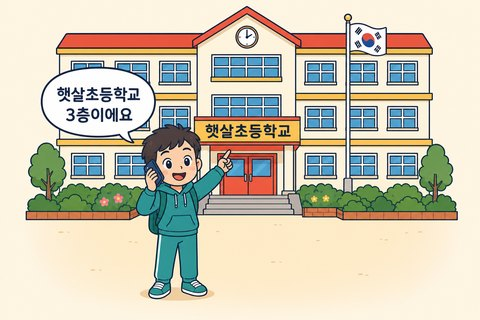
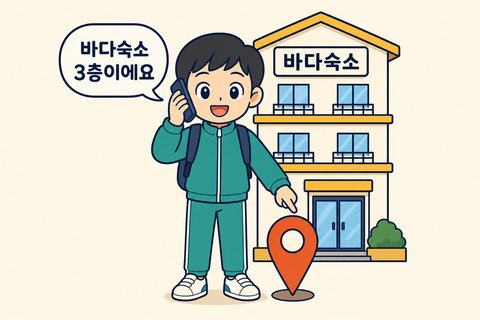
119 위치 안내를 다시 숙소 기준으로 되돌림
- 게임 스토리상 화재는 수학여행 숙소에서 나므로 학교 기준은 서사와 어긋남
- 삽화와 카드 문구 모두 숙소("바다숙소 3층") 버전으로 복구

diff --git a/index.html b/index.html
@@ -1575,13 +1575,13 @@ const S119 = orderPuzzle({
   cards:[
     {img:"img/steps/call1.jpg", t:"침착하게 119를 눌러요"},
     {img:"img/steps/call2.jpg", t:"무슨 일인지 말해요 — \"불이 났어요!\""},
-    {img:"img/steps/call3.jpg", t:"어디인지 말해요 — 학교 이름과 층"},
+    {img:"img/steps/call3.jpg", t:"어디인지 말해요 — 숙소 이름과 층"},
     {img:"img/steps/call4.jpg", t:"끊으라고 할 때까지 기다려요"}
   ],
   wrongMsg:"신고 순서가 달라요. 전화 걸기 → 무슨 일 → 어디인지!",
   onComplete() {
     addScore(200);
-    addRule("119 신고: 무슨 일인지·어디인지(학교 이름과 층) 또박또박 말하고, 끊으라고 할 때까지 기다려요.", "escape");
+    addRule("119 신고: 무슨 일인지·어디인지 또박또박 말하고, 끊으라고 할 때까지 기다려요.", "escape");
     gainBadge();
     sfx.clear(); confetti();
     setTimeout(() => {
